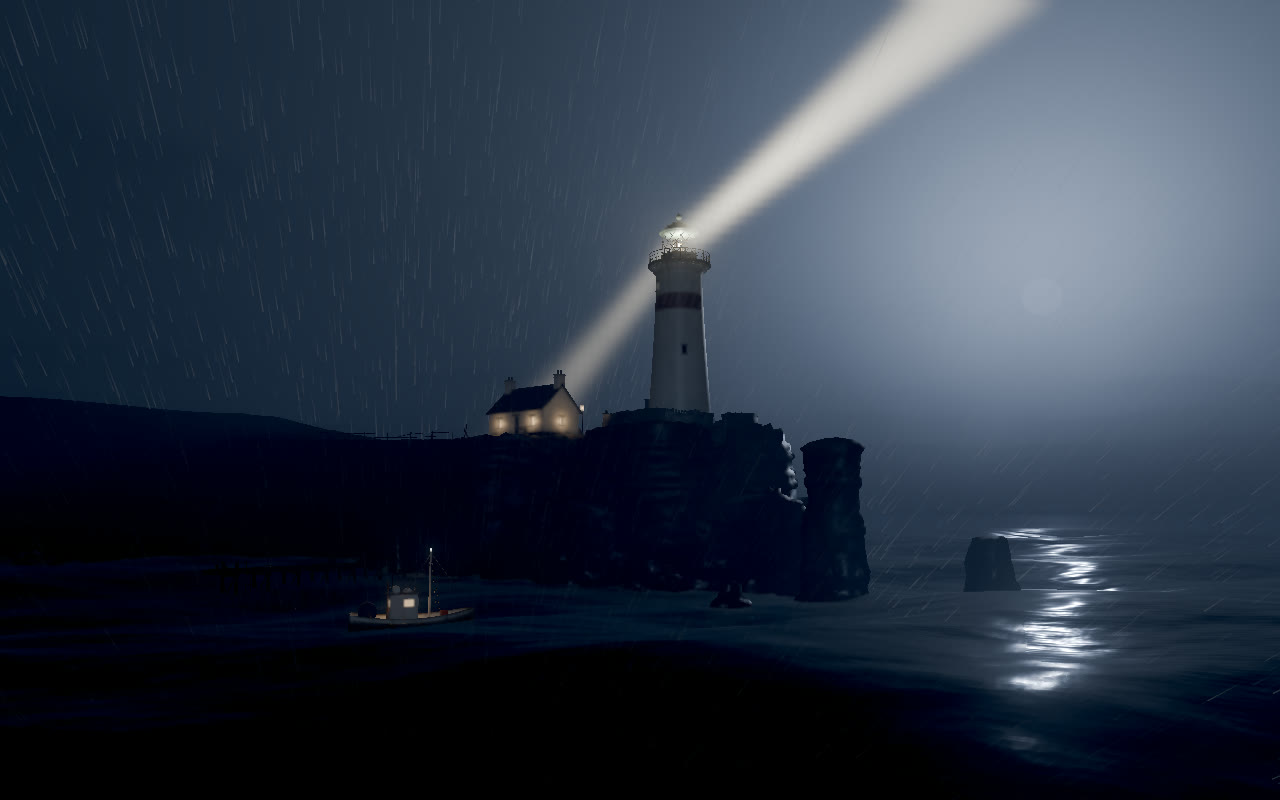
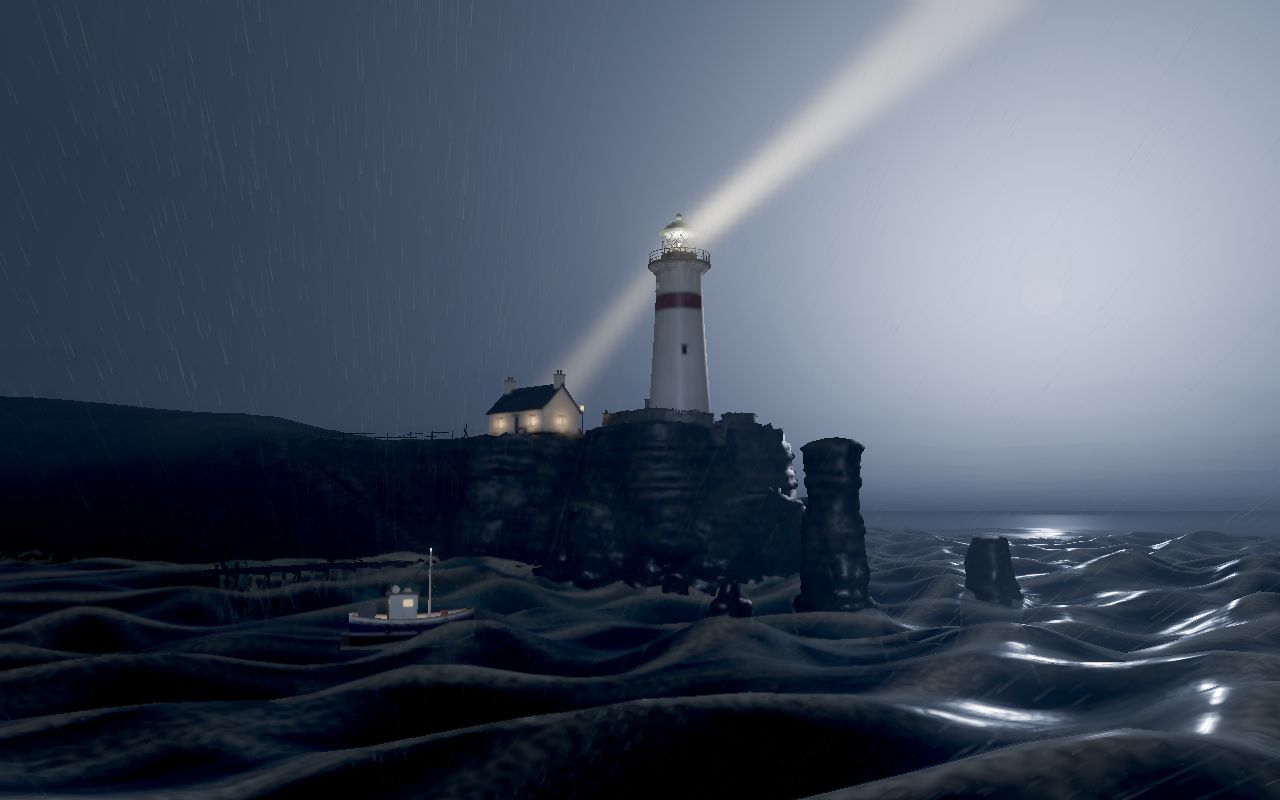
fix(demos): Storm Light cliffs and sea read at night, and the sea meets the sky in a horizon line
Cliffs and foreground sea: the visible cliff faces turn away from the moon (it stands low behind the headland), so
their light is the moonlit cloud deck, which the sky's reflection map and scene light do not contain
(docs/known-bugs.md, new entry). The sea reflected, and the rock was lit by, a near-black night. The page now sets the
night zenith and night sky light to the deck's level, doubles the moonlight, strengthens the cool sea-side fill, and
gives the wind sea a short steep train (12 m, crest sharpness 0.3, still unfolded at full storm) whose crests reach
the water's whitecap steepness, so crests catch the light and break into foam.

Horizon: the volumetric fog gives the sky and the far sea the same full 480 m of fog, and at sea level that was an
optical depth of about 3, so both faded to one grey. Half the density keeps about a fifth of the light, and the sea
meets the sky in a soft line from every tour view. Beam, lit windows and boat light unchanged.

Hero image site/images/storm-light.jpg re-shot.

diff --git a/examples/storm-light/main.ts b/examples/storm-light/main.ts
@@ -71,6 +71,9 @@ const bloom = new Bloom({ strength: 0.18, threshold: 1.4, radius: 0.85 }),
   stack = PostStack.attach(engine, [bloom, tonemap]);
 TAA.attach(engine, { depth: () => stack.depthTexture });
 
+// The night sky light on everything the lamp does not reach: the overcast deck lit by the moon above it, so the cliffs,
+// the foam and the boat keep their shapes (the deck itself does not light the scene; see the zenith colour below).
+const nightAmbient: Vec3 = [0.05, 0.065, 0.1];
 // The sky: dusk light fading behind the storm, a moon behind the clouds, the cloud deck closing in with the storm.
 const sky = Sky.attach(
   engine,
@@ -81,7 +84,9 @@ const sky = Sky.attach(
     turbidity: 6,
     exposure: -0.6,
     night: {
-      zenithColor: [0.004, 0.007, 0.016],
+      // The sea reflects, and the sky lights the scene from, the night sky's own colours: the volumetric cloud deck is
+      // in neither (docs/known-bugs.md), so the zenith stands in for the deck's moonlit underside.
+      zenithColor: [0.012, 0.021, 0.048],
       horizonColor: [0.03, 0.04, 0.06],
       hazeDensity: 1.4,
       // The night's moon sits where the lighting moon is (it lights the scene and casts the shadows): a dim disc whose
@@ -97,7 +102,7 @@ const sky = Sky.attach(
     lighting: {
       intensity: 3,
       moon: { intensity: 0.22, color: [0.55, 0.68, 1] },
-      ambient: { day: [0.03, 0.035, 0.045], night: [0.02, 0.026, 0.04] },
+      ambient: { day: [0.03, 0.035, 0.045], night: nightAmbient },
     },
   },
   { preetham, night, reflection, lighting },
@@ -176,11 +181,13 @@ water = Water.attach(engine, {
   waves: [
     { direction: [-0.8, -0.6], amplitude: 1, wavelength: 78, steepness: 0.55, phase: 0.4 },
     { direction: [-0.55, -0.83], amplitude: 0.55, wavelength: 41, steepness: 0.5, phase: 2.1 },
-    { direction: [-0.95, -0.2], amplitude: 0.25, wavelength: 19, steepness: 0.45, phase: 4.3 },
+    // The wind sea: short and steep enough that its crests break into foam as the storm rises (gentle crests never
+    // reach the water's whitecap steepness), with a low crest sharpness so a full storm still does not fold it.
+    { direction: [-0.95, -0.2], amplitude: 0.82, wavelength: 12, steepness: 0.3, phase: 4.3 },
   ],
 });
 
-// Far out the sea fades into the rain haze, so it meets the sky without a seam (the volumetric fog ends at its range).
+// Far out, past the volumetric fog's range, the sea fades into the rain haze; it stays darker than the sky above it.
 const haze = { color: [0.012, 0.016, 0.026] as Vec3, near: 220, far: 2600 };
 water.setFog(haze);
 
@@ -260,7 +267,7 @@ const fill: ClusteredLight = {
   decay: 2,
   range: 420,
   color: [0.42, 0.52, 0.78],
-  intensity: 9000,
+  intensity: 25000,
 };
 const mastLocal = scene.boat.mastLight as Vec3;
 // ?beam=<radians> holds the beams at one bearing (for stills and tests); otherwise they turn once every twelve seconds.
@@ -453,7 +460,7 @@ const ramp = (a: number, b: number, x: number) => {
 const NAMES = ['Calm', 'Breeze', 'Fresh', 'Squall', 'Gale', 'Storm'];
 let storm = Number(slider.value),
   windSpeed = 0,
-  moonLight = 0.6;
+  moonLight = 1.2;
 function setStorm(value: number) {
   storm = value;
   force.value = NAMES[Math.min(NAMES.length - 1, Math.floor(value * NAMES.length))];
@@ -461,7 +468,7 @@ function setStorm(value: number) {
   const wind: [number, number] = [-0.8 * windSpeed * 0.7, -0.6 * windSpeed * 0.7];
   sky.options.hours = 20.1 + 2.4 * ramp(0, 1, value);
   haze.far = 4200 - 2600 * ramp(0.2, 1, value);
-  moonLight = 0.6 * (1 - 0.5 * ramp(0.3, 1, value));
+  moonLight = 1.2 * (1 - 0.5 * ramp(0.3, 1, value));
   deck.options.coverage = 0.62 + 0.33 * ramp(0, 0.9, value);
   deck.options.density = 0.02 + 0.03 * value;
   deck.options.wind = [wind[0] * 1.5, wind[1] * 1.5];
@@ -470,7 +477,9 @@ function setStorm(value: number) {
   // No flashes for anyone who asks for reduced motion.
   weather.options.lightning!.rate = still ? 0 : 2 + 10 * ramp(0.5, 1, value);
   water?.setWaveHeight(0.25 + 1.95 * value ** 1.4);
-  fog.options.density = 0.002 + 0.007 * ramp(0.1, 1, value);
+  // Thin enough near the sea that a level ray keeps about a fifth of its light across the fog's 480 m: the fog covers
+  // the far sea and the sky behind it alike (both get its full range), so any thicker and the horizon is lost.
+  fog.options.density = 0.001 + 0.0035 * ramp(0.1, 1, value);
   fog.options.noise = 0.3 + 0.5 * value;
   fog.options.wind = [wind[0] * 0.6, 0, wind[1] * 0.6];
 }
@@ -551,7 +560,11 @@ stage.use({
     // flare together for a moment.
     const flash = weather.flash;
     sky.options.lighting!.moon!.intensity = moonLight + flash * 6;
-    sky.options.lighting!.ambient!.night = [0.02 + flash * 0.9, 0.026 + flash * 0.95, 0.04 + flash * 1.1];
+    sky.options.lighting!.ambient!.night = [
+      nightAmbient[0] + flash * 0.9,
+      nightAmbient[1] + flash * 0.95,
+      nightAmbient[2] + flash * 1.1,
+    ];
     glow.uniforms.beam.value = beamAngle;
     streak.uniforms.time.value = time;
     fog.options.ambient = [0.004 + weather.flash * 0.3, 0.005 + weather.flash * 0.33, 0.008 + weather.flash * 0.42];

diff --git a/docs/known-bugs.md b/docs/known-bugs.md
@@ -6,6 +6,22 @@ an entry gives the **Repro**, the **Cause** and, once fixed, the commit and the 
 "Needs a maintainer decision" marks a fix that would change what a check accepts or touch the frozen core. Report a
 new bug as [CONTRIBUTING.md](../CONTRIBUTING.md#reporting-bugs) describes.
 
+### Open 2026-11-13: the volumetric cloud deck is missing from the sky's reflection map and scene light (sky, lane S1g)
+
+- **Repro:** `examples/storm-light` before 2026-11-13 S1g (night zenith `[0.004, 0.007, 0.016]`, night ambient
+  `[0.02, 0.026, 0.04]`), 1920x1080, `?tour=0&storm=0.78`. The moonlit `VolumetricClouds` deck fills the sky at a
+  mean luma of about 95, yet the near sea measures 1.7 and the cliffs 0.4 (with the volumetric fog off): the water
+  reflects `sky.reflectionTexture` and `lighting.ambient` lights the meshes from the same 64 x 32 map, and both show
+  only the stylized night gradient behind the deck.
+- **Cause:** `packages/sky/src/reflection.ts` fills the map from `skyEnvironment` (the day model, `night` and the
+  sky's own 2D `clouds`); `VolumetricClouds` reads that map to light itself but never writes into it, so nothing that
+  reflects or takes sky light sees the deck.
+- **Workaround:** set the night `zenithColor` and `lighting.ambient.night` near the deck's lit underside, as Storm
+  Light now does.
+- **Needed to close:** let `VolumetricClouds` composite a coarse march of the deck over the 64 x 32 map before the
+  sky's harmonics and mips are built, with a browser test that a lit deck raises the map's upper-hemisphere mean and
+  a mesh's ambient by the deck's coverage times its radiance.
+
 ### Open 2026-11-13: IGES parametric spline surfaces (entity 114) are refused; their coefficient order is not checked (brep)
 
 - **Repro:** an IGES 5.3 file with a parametric spline surface (entity 114) through `parseIGES` or `igesToSTEP` in

diff --git a/examples/storm-light/README.md b/examples/storm-light/README.md
@@ -12,7 +12,8 @@ to full gale. Everything moves live in WebGPU.
   when a beam swings toward the camera.
 - **The sea.** `@margoengine/water`: three Gerstner swell trains from the south-west, Fresnel reflection of the sky,
   moon glints, refraction of the rocks below the surface, and the headland's height map coupling the sea to the shore
-  for run-up, breakers, foam and spray. The far sea fades into the rain haze so it meets the sky without a seam.
+  for run-up, breakers, foam and spray. A short, steep wind sea breaks into foam on its crests as the storm rises, and
+  the fog stays thin enough at sea level that the sea meets the sky in a soft horizon line.
 - **The sky.** `@margoengine/sky`: a stylized night with the moon behind an overcast deck of real 3D cloud
   (`VolumetricClouds`), rain and lightning from `@margoengine/sky/weather`. A flash lights the clouds, the cliffs and
   the sea for a moment. Click the sky to strike lightning toward where you clicked.
@@ -55,5 +56,8 @@ node examples/storm-light/blender/compress.mjs
 
 - The cloud deck is lit by the moon, the night sky and lightning, not by the beam: `VolumetricClouds` takes the sky's
   lights only. The beam's glow in the rain haze below the deck stands in for it.
+- The deck is not in the sky's reflection map or its scene light either (docs/known-bugs.md), so the sea would reflect,
+  and the cliffs would be lit by, a near-black night. The page sets the night zenith and the night sky light to the
+  deck's moonlit level instead.
 - The water takes glints from up to two directional lights, so the cabin's glow on the sea is a drawn streak, not a
   reflection the water computes.
